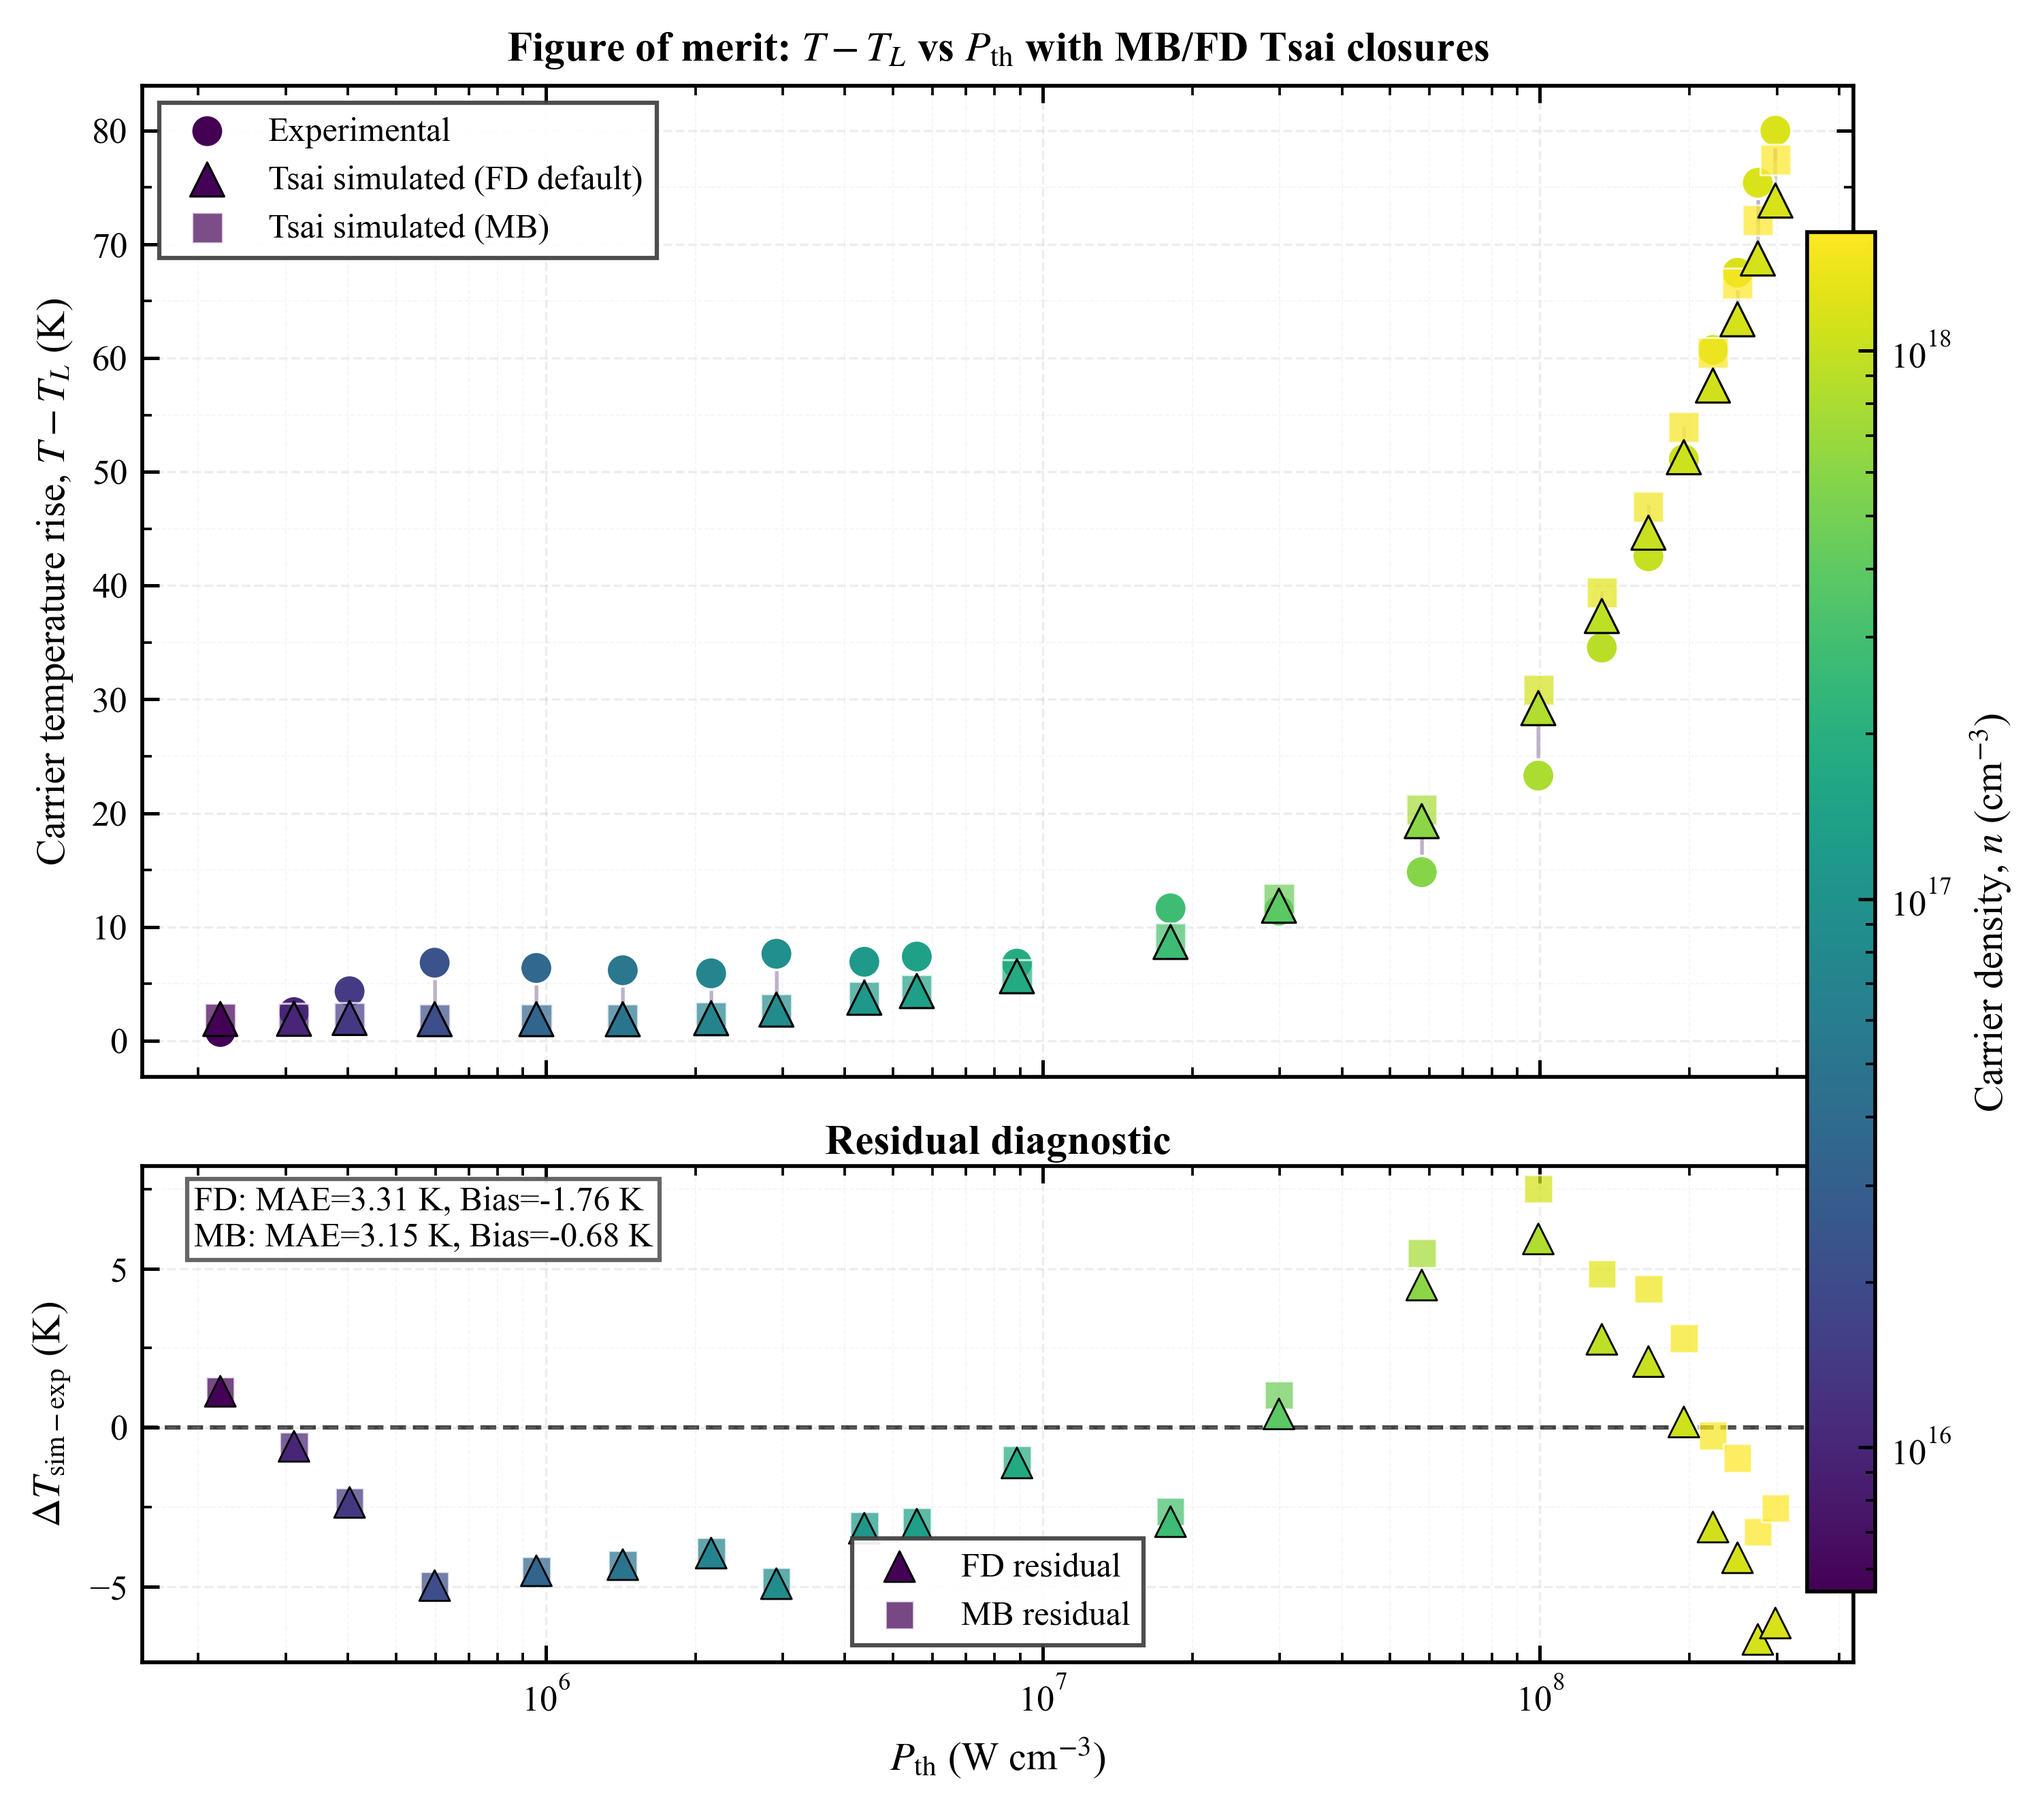
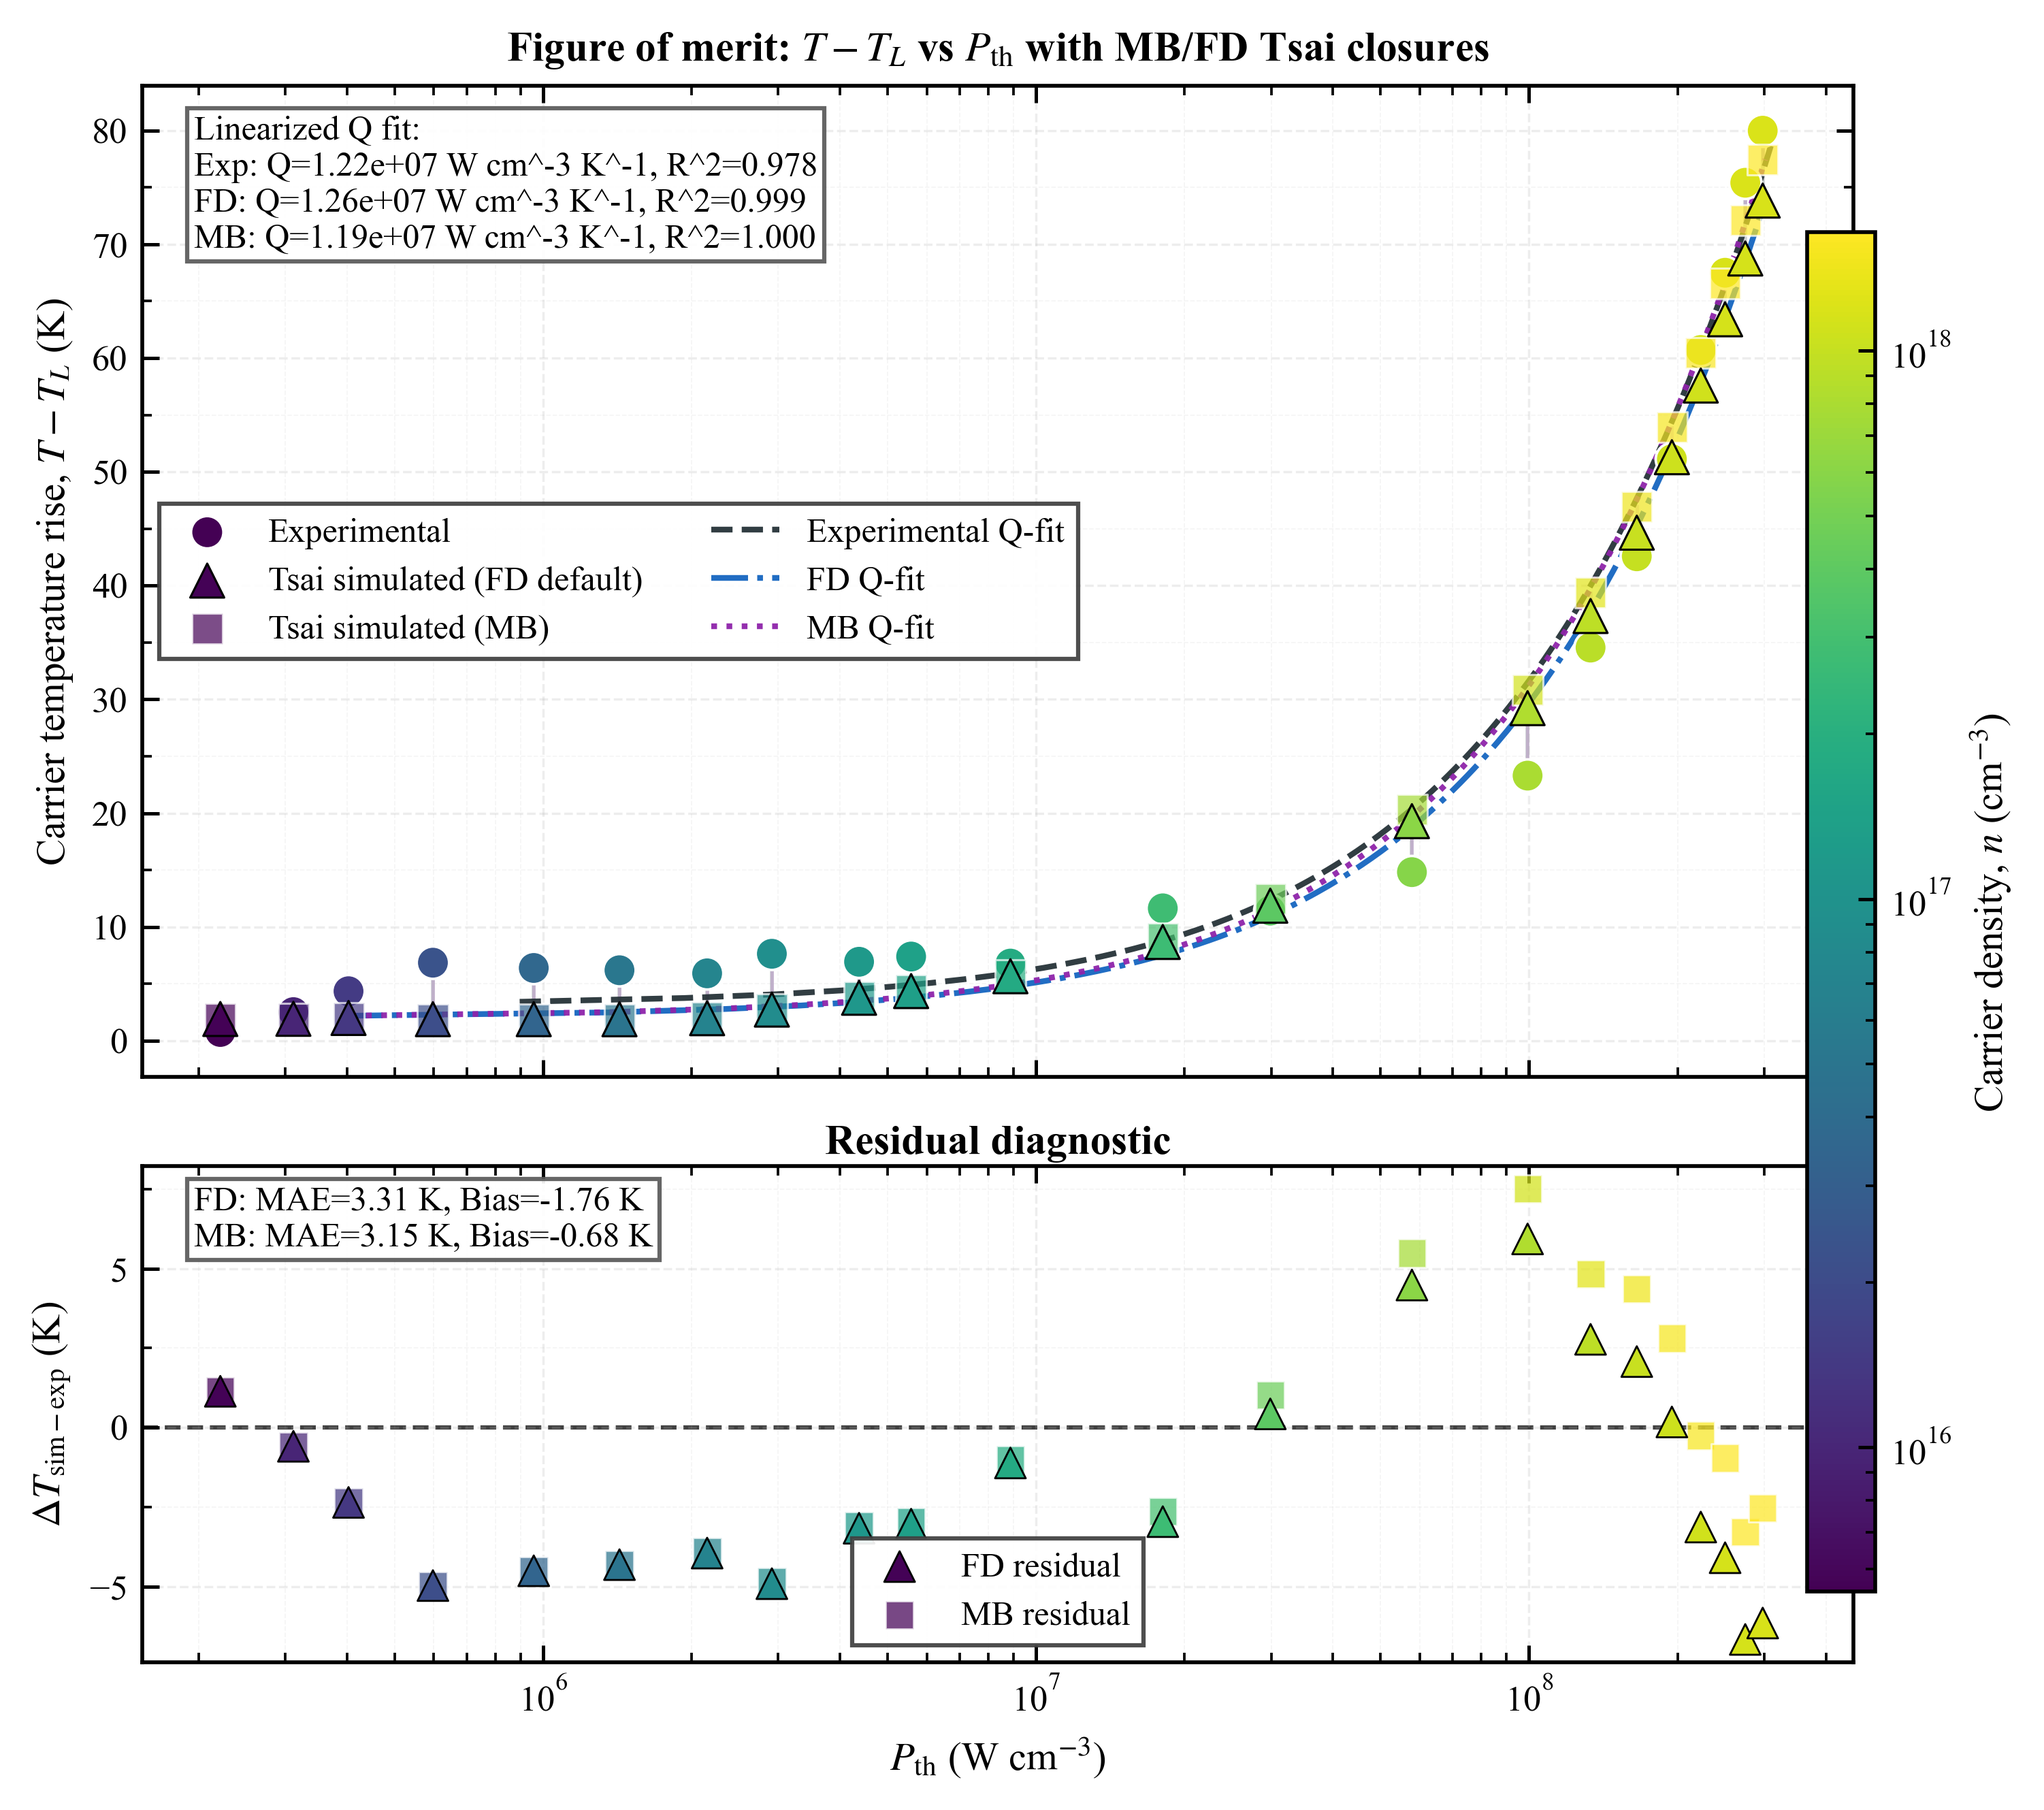
Updated the Tsai P_th vs ΔT figure so it now computes a linearized thermalization-coefficient fit, overlays the fitted curve(s), and annotates the extracted Q values directly on the plot in plotting.py and plotting.py. The fit uses the standard LO-phonon-compensated form P_th * exp(E_LO / k_B T) = Q
From the current dataset, the annotated values are:

Experimental: Q = 1.22e7 W cm^-3 K^-1, R^2 = 0.978
FD Tsai: Q = 1.26e7 W cm^-3 K^-1, R^2 = 0.999
MB Tsai: Q = 1.19e7 W cm^-3 K^-1, R^2 = 0.999
I regenerated the figure with .venv\Scripts\python.exe main.py; the updated image is tsai_temperature_rise_vs_pth_density.png.

diff --git a/hot_carrier/plotting.py b/hot_carrier/plotting.py
@@ -25,6 +25,8 @@ from .config import (
     K_B,
     MB_VALIDITY_REL_ERROR_LIMIT,
     SAVE_DPI,
+    TSAI_LATTICE_TEMPERATURE_K,
+    TSAI_LO_PHONON_ENERGY_EV,
 )
 from .models import FitResult
 
@@ -137,6 +139,80 @@ def style_axes(ax: plt.Axes, logx: bool = False, logy: bool = False) -> None:
 def save_figure(fig: plt.Figure, outpath: Path) -> None:
     png_outpath = outpath.with_suffix(".png")
     fig.savefig(png_outpath, dpi=SAVE_DPI, bbox_inches="tight")
+
+
+def _compute_tsai_q_factor_fit(
+    pth_w_cm3: np.ndarray,
+    temperature_rise_k: np.ndarray,
+) -> tuple[float, float, float] | None:
+    pth = np.asarray(pth_w_cm3, dtype=float)
+    delta_t = np.asarray(temperature_rise_k, dtype=float)
+    temperature_k = TSAI_LATTICE_TEMPERATURE_K + delta_t
+
+    valid = (
+        np.isfinite(pth)
+        & (pth > 0)
+        & np.isfinite(delta_t)
+        & (delta_t > 0)
+        & np.isfinite(temperature_k)
+        & (temperature_k > 0)
+    )
+    if np.count_nonzero(valid) < 2:
+        return None
+
+    x = delta_t[valid]
+    if np.allclose(x, x[0]):
+        return None
+
+    lo_phonon_energy_j = TSAI_LO_PHONON_ENERGY_EV * E_CHARGE
+    y = pth[valid] * np.exp(lo_phonon_energy_j / (K_B * temperature_k[valid]))
+    slope, intercept = np.polyfit(x, y, deg=1)
+    y_fit = slope * x + intercept
+    ss_res = float(np.sum((y - y_fit) ** 2))
+    ss_tot = float(np.sum((y - np.mean(y)) ** 2))
+    r2 = 1.0 - ss_res / ss_tot if ss_tot > 0 else np.nan
+    return float(slope), float(intercept), float(r2)
+
+
+def _build_tsai_q_fit_curve(
+    temperature_rise_k: np.ndarray,
+    slope: float,
+    intercept: float,
+    n_points: int = 240,
+) -> tuple[np.ndarray, np.ndarray]:
+    delta_t = np.asarray(temperature_rise_k, dtype=float)
+    valid = np.isfinite(delta_t) & (delta_t > 0)
+    if np.count_nonzero(valid) < 2:
+        return np.array([], dtype=float), np.array([], dtype=float)
+
+    delta_t_min = float(np.min(delta_t[valid]))
+    delta_t_max = float(np.max(delta_t[valid]))
+    if delta_t_max <= delta_t_min:
+        return np.array([], dtype=float), np.array([], dtype=float)
+
+    delta_t_grid = np.linspace(delta_t_min, delta_t_max, int(n_points), dtype=float)
+    temperature_k = TSAI_LATTICE_TEMPERATURE_K + delta_t_grid
+    lo_phonon_energy_j = TSAI_LO_PHONON_ENERGY_EV * E_CHARGE
+    linearized_pth = slope * delta_t_grid + intercept
+    pth_fit = linearized_pth * np.exp(-(lo_phonon_energy_j / (K_B * temperature_k)))
+
+    valid_curve = (
+        np.isfinite(pth_fit)
+        & (pth_fit > 0)
+        & np.isfinite(delta_t_grid)
+        & (delta_t_grid > 0)
+    )
+    return pth_fit[valid_curve], delta_t_grid[valid_curve]
+
+
+def _format_tsai_q_fit_summary(
+    label: str,
+    fit_result: tuple[float, float, float] | None,
+) -> str | None:
+    if fit_result is None:
+        return None
+    q_factor, _intercept, r2 = fit_result
+    return f"{label}: Q={q_factor:.2e} W cm^-3 K^-1, R^2={r2:.3f}"
 
 
 def plot_raw_spectra(
@@ -1613,6 +1689,9 @@ def plot_tsai_temperature_rise_vs_pth_density(
         n_exp = n_exp[valid]
         n_mb = n_mb[valid]
         n_fd = n_fd[valid]
+        q_fit_exp = _compute_tsai_q_factor_fit(pth, dT_exp)
+        q_fit_fd = _compute_tsai_q_factor_fit(pth, dT_fd)
+        q_fit_mb = _compute_tsai_q_factor_fit(pth, dT_mb)
 
         n_all = np.concatenate([n_exp, n_mb, n_fd])
         n_norm = LogNorm(vmin=float(np.min(n_all)), vmax=float(np.max(n_all)))
@@ -1669,6 +1748,30 @@ def plot_tsai_temperature_rise_vs_pth_density(
             label=f"Tsai simulated (MB{' default' if default_model == 'mb' else ''})",
             zorder=3,
         )
+        for fit_result, fit_source, color, linestyle, label in (
+            (q_fit_exp, dT_exp, "#263238", "--", "Experimental Q-fit"),
+            (q_fit_fd, dT_fd, "#1565c0", "-.", "FD Q-fit"),
+            (q_fit_mb, dT_mb, "#8e24aa", ":", "MB Q-fit"),
+        ):
+            if fit_result is None:
+                continue
+            fit_pth, fit_dt = _build_tsai_q_fit_curve(
+                temperature_rise_k=fit_source,
+                slope=fit_result[0],
+                intercept=fit_result[1],
+            )
+            if fit_pth.size < 2:
+                continue
+            ax0.plot(
+                fit_pth,
+                fit_dt,
+                color=color,
+                lw=1.35,
+                ls=linestyle,
+                alpha=0.95,
+                label=label,
+                zorder=2,
+            )
 
         style_axes(ax0, logx=True)
         ax0.set_ylabel(r"Carrier temperature rise, $T - T_L$ (K)")
@@ -1676,7 +1779,34 @@ def plot_tsai_temperature_rise_vs_pth_density(
             r"Figure of merit: $T-T_L$ vs $P_{\mathrm{th}}$ with MB/FD Tsai closures",
             pad=6.0,
         )
-        ax0.legend(loc="best", fontsize=LEGEND_FONT_SIZE)
+        q_summary_lines = [
+            line
+            for line in (
+                _format_tsai_q_fit_summary("Exp", q_fit_exp),
+                _format_tsai_q_fit_summary("FD", q_fit_fd),
+                _format_tsai_q_fit_summary("MB", q_fit_mb),
+            )
+            if line is not None
+        ]
+        if q_summary_lines:
+            q_text = "Linearized Q fit:\n" + "\n".join(q_summary_lines)
+            q_text_artist = ax0.text(
+                0.03,
+                0.97,
+                q_text,
+                transform=ax0.transAxes,
+                ha="left",
+                va="top",
+                fontsize=ANNOTATION_FONT_SIZE,
+                bbox={
+                    "facecolor": "white",
+                    "edgecolor": "0.35",
+                    "boxstyle": "square,pad=0.2",
+                    "alpha": 0.92,
+                },
+            )
+            _raise_annotation(q_text_artist)
+        ax0.legend(loc="best", fontsize=LEGEND_FONT_SIZE, ncol=2)
 
         delta_t_fd = dT_fd - dT_exp
         delta_t_mb = dT_mb - dT_exp
@@ -1779,6 +1909,8 @@ def plot_tsai_temperature_rise_vs_pth_density(
     dT_sim = dT_sim[valid]
     n_exp = n_exp[valid]
     n_sim = n_sim[valid]
+    q_fit_exp = _compute_tsai_q_factor_fit(pth, dT_exp)
+    q_fit_sim = _compute_tsai_q_factor_fit(pth, dT_sim)
 
     n_all = np.concatenate([n_exp, n_sim])
     n_norm = LogNorm(vmin=float(np.min(n_all)), vmax=float(np.max(n_all)))
@@ -1820,6 +1952,29 @@ def plot_tsai_temperature_rise_vs_pth_density(
         label="Tsai-simulated",
         zorder=4,
     )
+    for fit_result, fit_source, color, linestyle, label in (
+        (q_fit_exp, dT_exp, "#263238", "--", "Experimental Q-fit"),
+        (q_fit_sim, dT_sim, "#1565c0", "-.", "Tsai Q-fit"),
+    ):
+        if fit_result is None:
+            continue
+        fit_pth, fit_dt = _build_tsai_q_fit_curve(
+            temperature_rise_k=fit_source,
+            slope=fit_result[0],
+            intercept=fit_result[1],
+        )
+        if fit_pth.size < 2:
+            continue
+        ax0.plot(
+            fit_pth,
+            fit_dt,
+            color=color,
+            lw=1.35,
+            ls=linestyle,
+            alpha=0.95,
+            label=label,
+            zorder=2,
+        )
 
     style_axes(ax0, logx=True)
     ax0.set_ylabel(r"Carrier temperature rise, $T - T_L$ (K)")
@@ -1828,6 +1983,32 @@ def plot_tsai_temperature_rise_vs_pth_density(
         pad=6.0,
     )
     ax0.legend(loc="best", fontsize=LEGEND_FONT_SIZE)
+    q_summary_lines = [
+        line
+        for line in (
+            _format_tsai_q_fit_summary("Exp", q_fit_exp),
+            _format_tsai_q_fit_summary("Tsai", q_fit_sim),
+        )
+        if line is not None
+    ]
+    if q_summary_lines:
+        q_text = "Linearized Q fit:\n" + "\n".join(q_summary_lines)
+        q_text_artist = ax0.text(
+            0.03,
+            0.97,
+            q_text,
+            transform=ax0.transAxes,
+            ha="left",
+            va="top",
+            fontsize=ANNOTATION_FONT_SIZE,
+            bbox={
+                "facecolor": "white",
+                "edgecolor": "0.35",
+                "boxstyle": "square,pad=0.2",
+                "alpha": 0.92,
+            },
+        )
+        _raise_annotation(q_text_artist)
 
     delta_t = dT_sim - dT_exp
     ax1.axhline(0.0, color="0.25", lw=1.0, ls="--", zorder=1)
